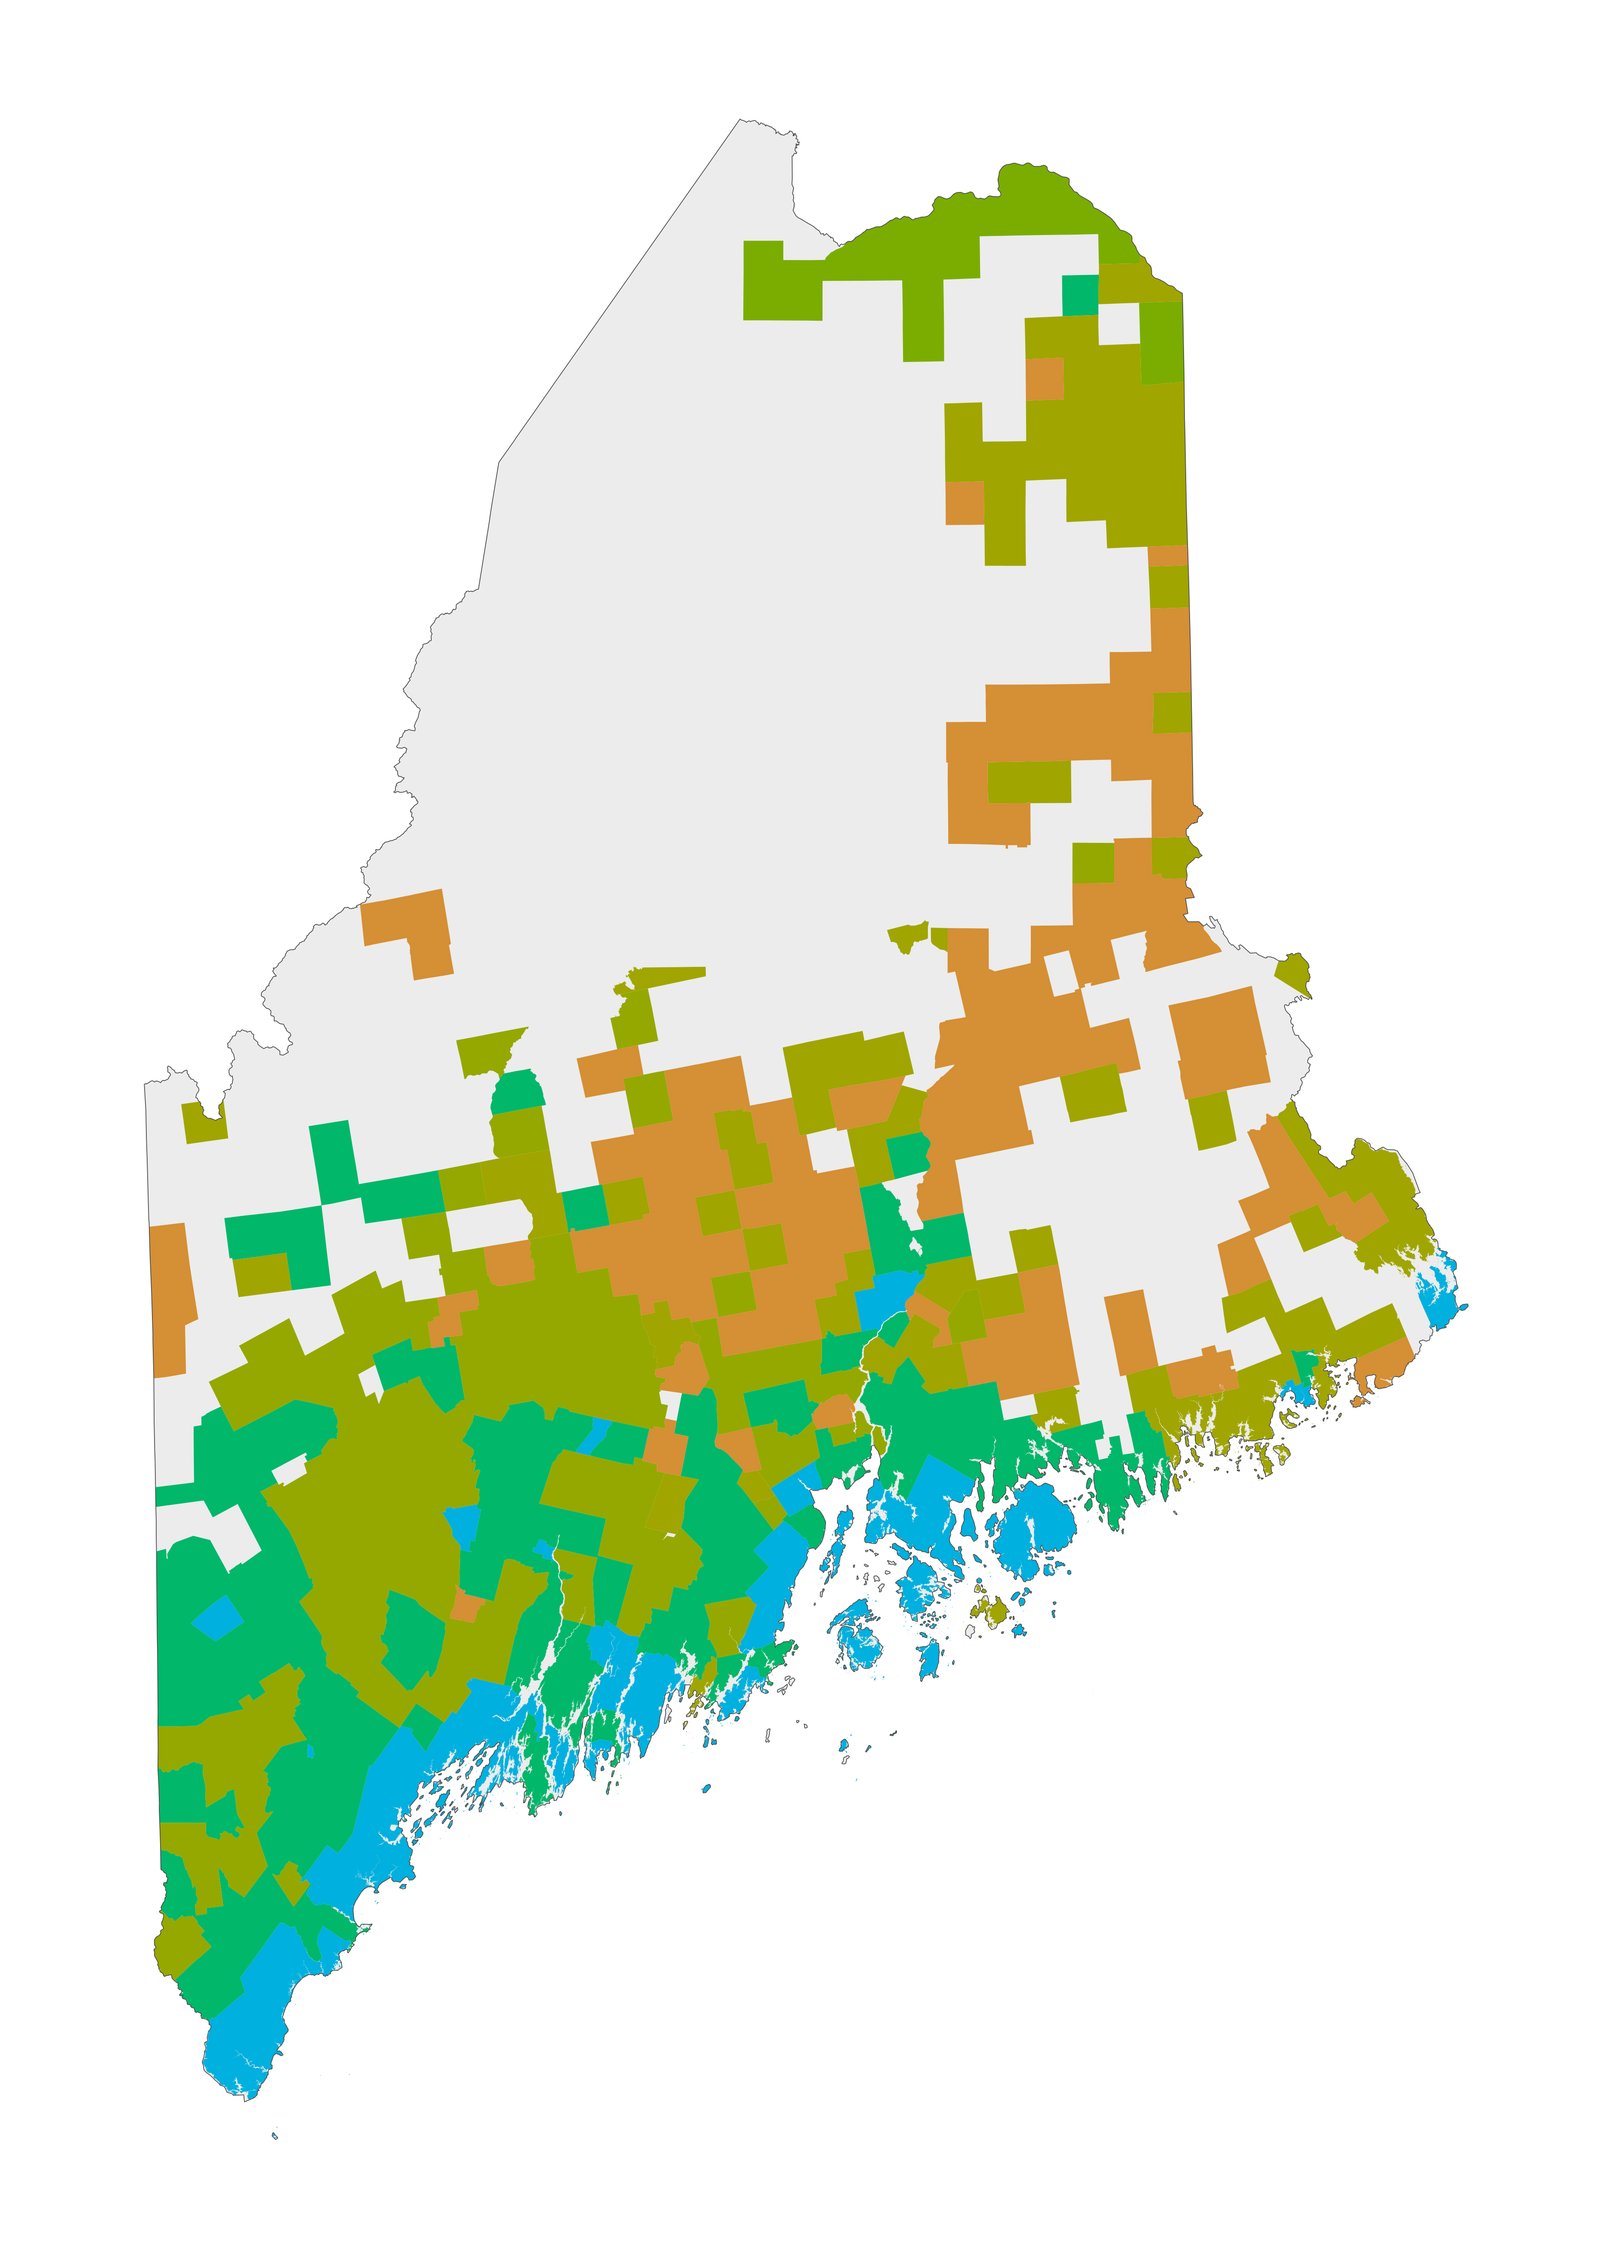
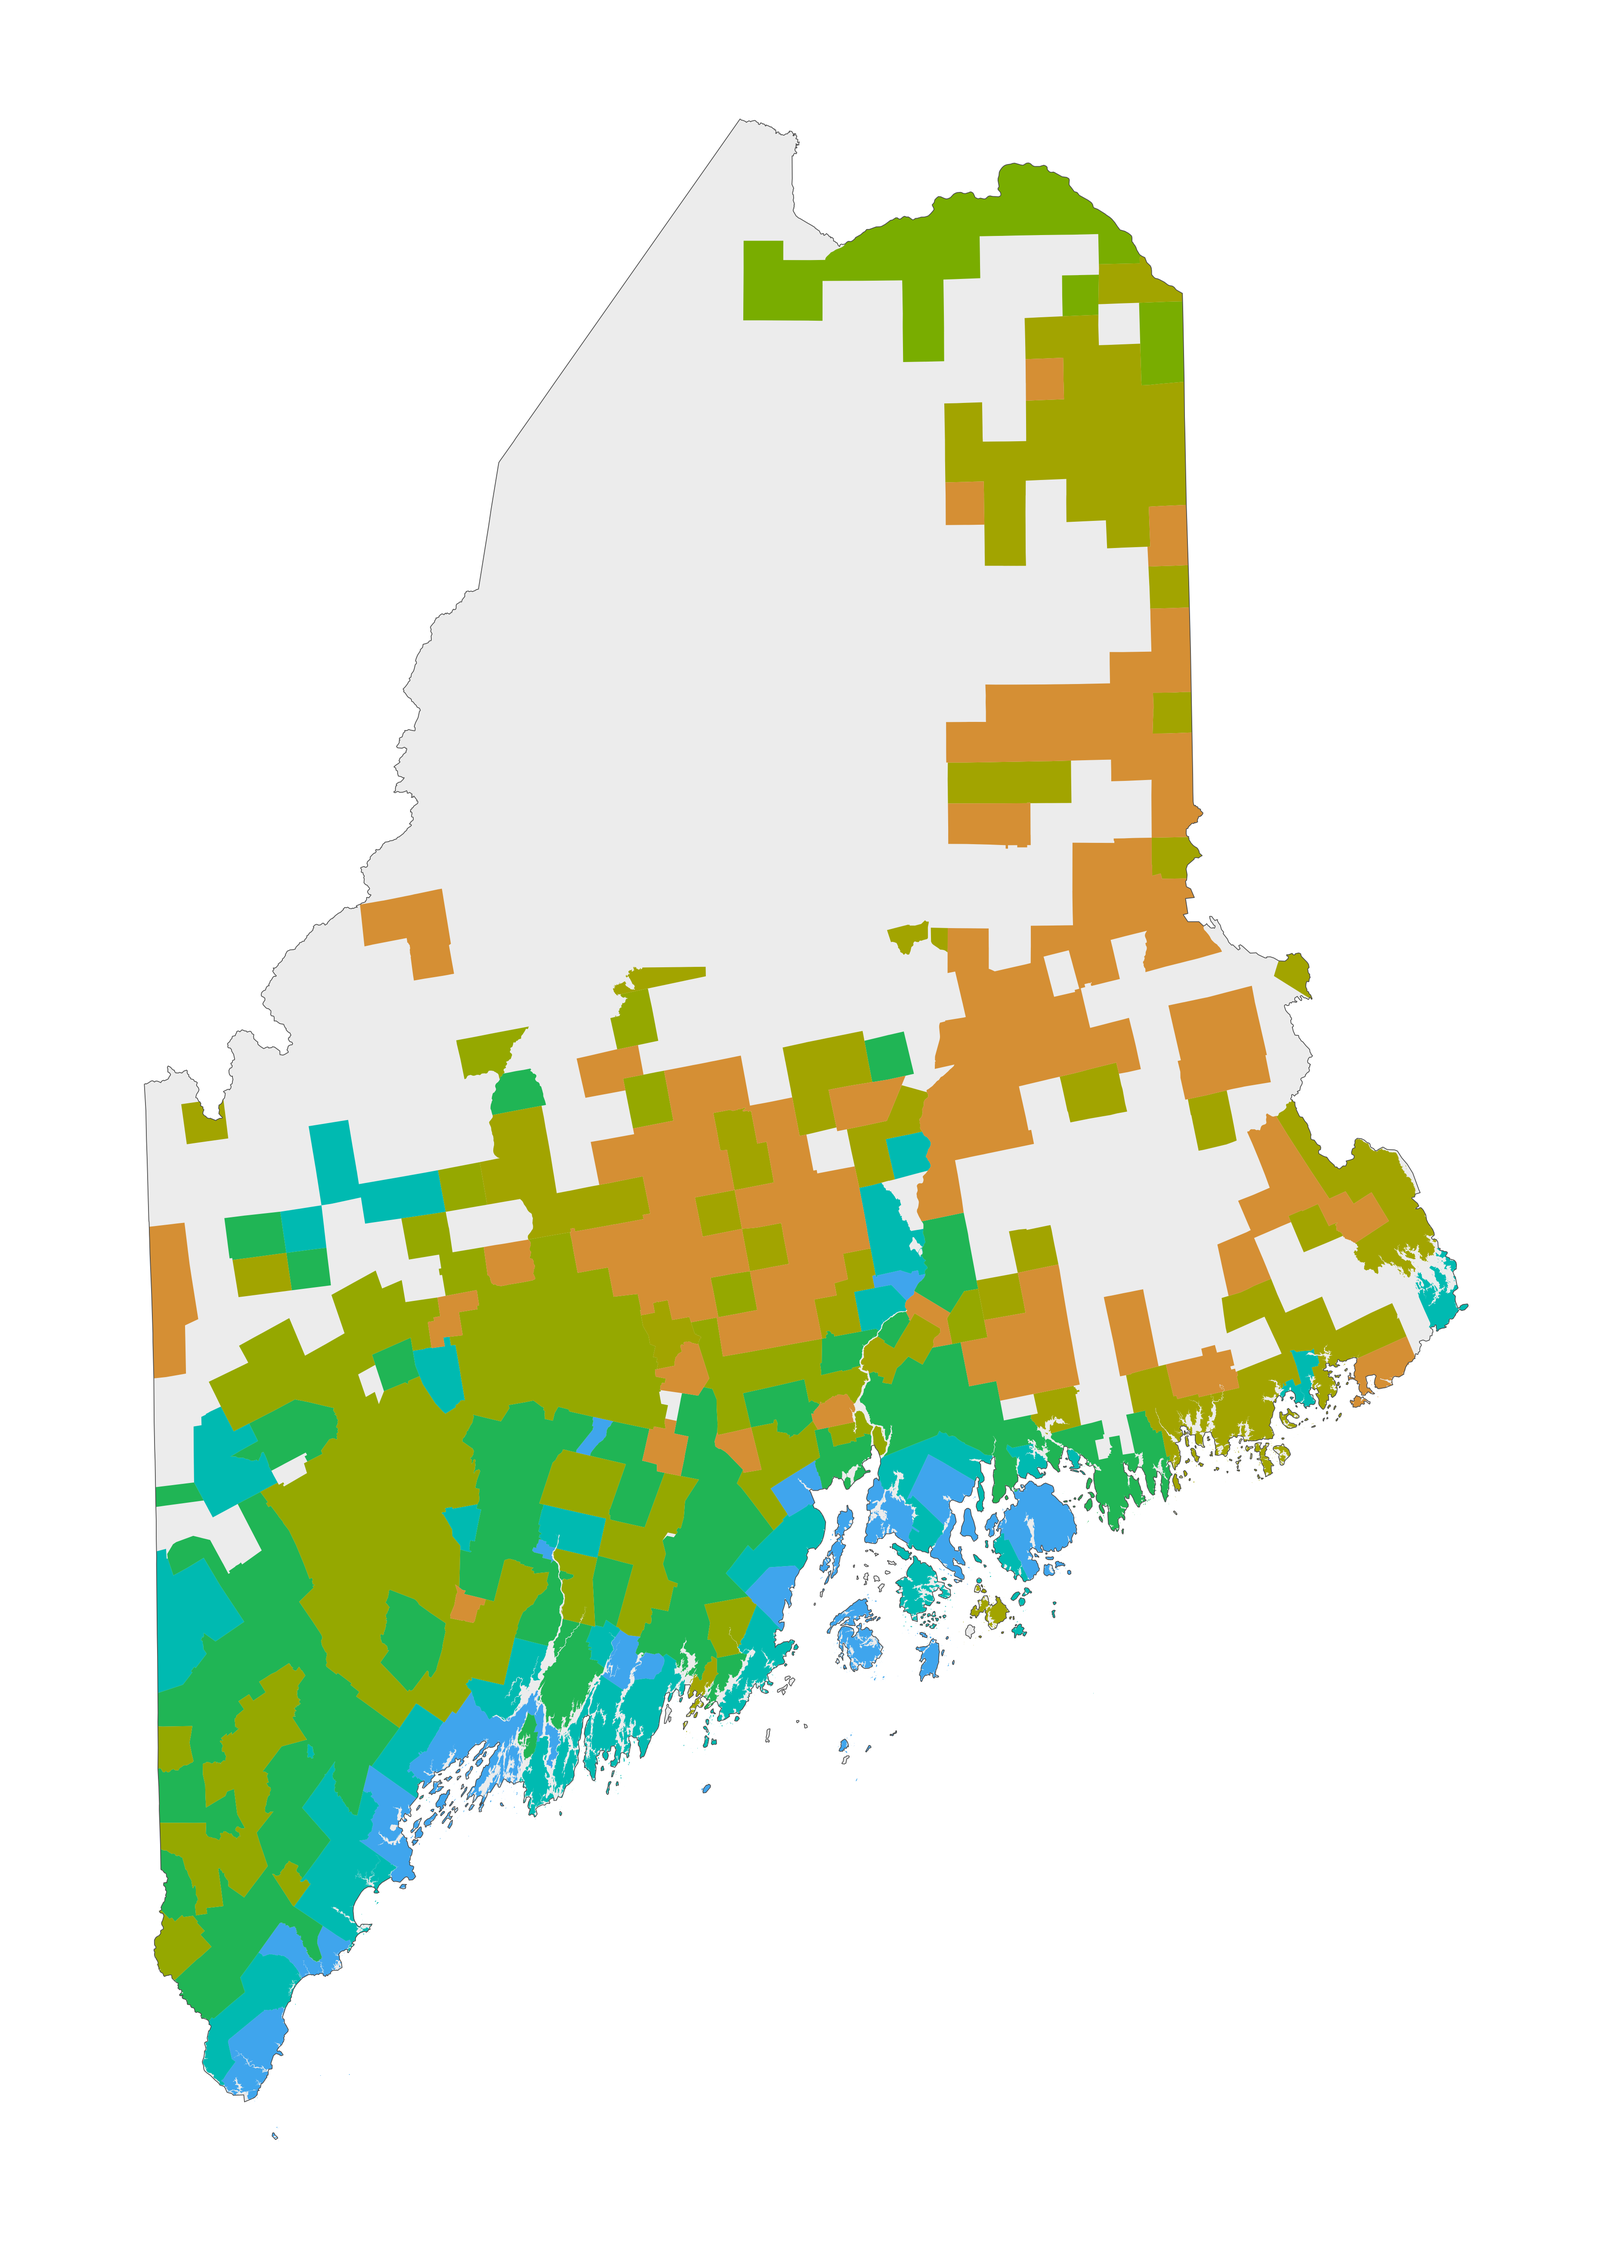
Atlas: Maine on seven stepping-stone blocs (zeta 0.5)
Maine's panel now shows the seven-bloc stepping-stone partition the paper
uses (K = 10 run, zeta = 0.5; pooled p(T = 7) = 1.00): The Old Coast, The
River Cities, Hills and Fields, New France, Mills and Farms, The County,
The Deep Woods. Rebuilt Maine's map, zoom map and PCA in the base and fused
schemes, and its bloc profile and index image (03_check: counts match, pixel
match 1.00). Only Maine's section of the panel HTML changes. The US overview
maps still show the six-bloc fit.

diff --git a/research/_atlas_fused_panels.html b/research/_atlas_fused_panels.html
@@ -178,19 +178,20 @@
 <section class="atlas-panel" id="panel-me" hidden>
   <header class="atlas-panel-head"><h2>Maine</h2>
     <button type="button" class="atlas-close" aria-label="Close Maine panel">&times;</button></header>
-  <p class="atlas-panel-sub">462 towns, 72 statewide questions, 2008–2025, 6 voting blocs.</p>
+  <p class="atlas-panel-sub">462 towns, 72 statewide questions, 2008–2025, 7 voting blocs.</p>
   <div class="atlas-panel-grid">
     <figure class="atlas-pca"><img loading="lazy" src="../files/images/research/atlas-fused/me_pca.gif" alt="Rotating three-dimensional plot of Maine towns on their first three Jensen-Shannon principal coordinates, colored by voting bloc, with numbered bloc centroids.">
       <figcaption>Towns on the first three principal coordinates of their voting (PC1 60% of variation). Numbers mark bloc centers. <strong>Click the plot</strong> to color the same points by density, race and education.</figcaption></figure>
     <ol class="atlas-blocs">
-      <li><span class="bloc-swatch" style="background:#81B9E6;color:#111">1</span><span class="bloc-name">The Old Coast</span><span class="bloc-meta">74 towns &middot; Harris 2024 69%</span></li>
-      <li><span class="bloc-swatch" style="background:#B9BCC3;color:#111">2</span><span class="bloc-name">The River Towns</span><span class="bloc-meta">107 towns &middot; Harris 2024 51%</span></li>
-      <li><span class="bloc-swatch" style="background:#8DC63F;color:#111">3</span><span class="bloc-name">New France</span><span class="bloc-meta">14 towns &middot; Harris 2024 43%</span></li>
-      <li><span class="bloc-swatch" style="background:#DA967D;color:#111">4</span><span class="bloc-name">The Mills</span><span class="bloc-meta">94 towns &middot; Harris 2024 40%</span></li>
-      <li><span class="bloc-swatch" style="background:#E09275;color:#111">5</span><span class="bloc-name">The County</span><span class="bloc-meta">75 towns &middot; Harris 2024 38%</span></li>
-      <li><span class="bloc-swatch" style="background:#DC6E55;color:#fff">6</span><span class="bloc-name">The Deep Woods</span><span class="bloc-meta">98 towns &middot; Harris 2024 28%</span></li>
+      <li><span class="bloc-swatch" style="background:#72B3E9;color:#111">1</span><span class="bloc-name">The Old Coast</span><span class="bloc-meta">39 towns &middot; Harris 2024 74%</span></li>
+      <li><span class="bloc-swatch" style="background:#96B1CC;color:#111">2</span><span class="bloc-name">The River Cities</span><span class="bloc-meta">61 towns &middot; Harris 2024 61%</span></li>
+      <li><span class="bloc-swatch" style="background:#C2BABB;color:#111">3</span><span class="bloc-name">Hills and Fields</span><span class="bloc-meta">85 towns &middot; Harris 2024 49%</span></li>
+      <li><span class="bloc-swatch" style="background:#8DC63F;color:#111">4</span><span class="bloc-name">New France</span><span class="bloc-meta">15 towns &middot; Harris 2024 43%</span></li>
+      <li><span class="bloc-swatch" style="background:#DB957C;color:#111">5</span><span class="bloc-name">Mills and Farms</span><span class="bloc-meta">91 towns &middot; Harris 2024 40%</span></li>
+      <li><span class="bloc-swatch" style="background:#E09174;color:#111">6</span><span class="bloc-name">The County</span><span class="bloc-meta">72 towns &middot; Harris 2024 38%</span></li>
+      <li><span class="bloc-swatch" style="background:#DC6E55;color:#fff">7</span><span class="bloc-name">The Deep Woods</span><span class="bloc-meta">99 towns &middot; Harris 2024 28%</span></li>
     </ol>
-    <figure class="atlas-state-map"><div class="atlas-zoom"><img loading="lazy" src="../files/images/research/atlas-fused/me_map.png" data-hi="../files/images/research/atlas-fused/me_map_hi.png" data-lines="../files/images/research/atlas/me_lines.png" data-labels="../files/images/research/atlas/me_labels.json" data-index="../files/images/research/atlas-profiles/me_index.png" data-profile="../files/images/research/atlas-profiles/me_profile.json" alt="Map of Maine towns colored by voting bloc (6 blocs)." draggable="false"></div><figcaption>Scroll, pinch or double-click to zoom; drag to pan. Zoom in for boundaries and town names. <strong>Click a bloc</strong> in the list or on the map for its demographic profile.</figcaption></figure>
+    <figure class="atlas-state-map"><div class="atlas-zoom"><img loading="lazy" src="../files/images/research/atlas-fused/me_map.png" data-hi="../files/images/research/atlas-fused/me_map_hi.png" data-lines="../files/images/research/atlas/me_lines.png" data-labels="../files/images/research/atlas/me_labels.json" data-index="../files/images/research/atlas-profiles/me_index.png" data-profile="../files/images/research/atlas-profiles/me_profile.json" alt="Map of Maine towns colored by voting bloc (7 blocs)." draggable="false"></div><figcaption>Scroll, pinch or double-click to zoom; drag to pan. Zoom in for boundaries and town names. <strong>Click a bloc</strong> in the list or on the map for its demographic profile.</figcaption></figure>
   </div>
   <div class="atlas-demog" id="demog-me" hidden>
     <img loading="lazy" width="1200" height="400" data-src="../files/images/research/atlas/me_demog.gif" alt="Three synchronized rotating plots of the same towns on the same principal coordinates, colored by population density, by racial composition, and by share with a bachelor's degree.">

diff --git a/research/_atlas_panels.html b/research/_atlas_panels.html
@@ -178,19 +178,20 @@
 <section class="atlas-panel" id="panel-me" hidden>
   <header class="atlas-panel-head"><h2>Maine</h2>
     <button type="button" class="atlas-close" aria-label="Close Maine panel">&times;</button></header>
-  <p class="atlas-panel-sub">462 towns, 72 statewide questions, 2008–2025, 6 voting blocs.</p>
+  <p class="atlas-panel-sub">462 towns, 72 statewide questions, 2008–2025, 7 voting blocs.</p>
   <div class="atlas-panel-grid">
     <figure class="atlas-pca"><img loading="lazy" src="../files/images/research/atlas/me_pca.gif" alt="Rotating three-dimensional plot of Maine towns on their first three Jensen-Shannon principal coordinates, colored by voting bloc, with numbered bloc centroids.">
       <figcaption>Towns on the first three principal coordinates of their voting (PC1 60% of variation). Numbers mark bloc centers. <strong>Click the plot</strong> to color the same points by density, race and education.</figcaption></figure>
     <ol class="atlas-blocs">
-      <li><span class="bloc-swatch" style="background:#00B0DE;color:#111">1</span><span class="bloc-name">The Old Coast</span><span class="bloc-meta">74 towns &middot; Harris 2024 69%</span></li>
-      <li><span class="bloc-swatch" style="background:#00B76A;color:#111">2</span><span class="bloc-name">The River Towns</span><span class="bloc-meta">107 towns &middot; Harris 2024 51%</span></li>
-      <li><span class="bloc-swatch" style="background:#7AAD00;color:#111">3</span><span class="bloc-name">New France</span><span class="bloc-meta">14 towns &middot; Harris 2024 43%</span></li>
-      <li><span class="bloc-swatch" style="background:#95A800;color:#111">4</span><span class="bloc-name">The Mills</span><span class="bloc-meta">94 towns &middot; Harris 2024 40%</span></li>
-      <li><span class="bloc-swatch" style="background:#A0A500;color:#111">5</span><span class="bloc-name">The County</span><span class="bloc-meta">75 towns &middot; Harris 2024 38%</span></li>
-      <li><span class="bloc-swatch" style="background:#D58F34;color:#111">6</span><span class="bloc-name">The Deep Woods</span><span class="bloc-meta">98 towns &middot; Harris 2024 28%</span></li>
+      <li><span class="bloc-swatch" style="background:#3FA5ED;color:#111">1</span><span class="bloc-name">The Old Coast</span><span class="bloc-meta">39 towns &middot; Harris 2024 74%</span></li>
+      <li><span class="bloc-swatch" style="background:#00BAB1;color:#111">2</span><span class="bloc-name">The River Cities</span><span class="bloc-meta">61 towns &middot; Harris 2024 61%</span></li>
+      <li><span class="bloc-swatch" style="background:#20B555;color:#111">3</span><span class="bloc-name">Hills and Fields</span><span class="bloc-meta">85 towns &middot; Harris 2024 49%</span></li>
+      <li><span class="bloc-swatch" style="background:#79AD00;color:#111">4</span><span class="bloc-name">New France</span><span class="bloc-meta">15 towns &middot; Harris 2024 43%</span></li>
+      <li><span class="bloc-swatch" style="background:#95A800;color:#111">5</span><span class="bloc-name">Mills and Farms</span><span class="bloc-meta">91 towns &middot; Harris 2024 40%</span></li>
+      <li><span class="bloc-swatch" style="background:#A2A400;color:#111">6</span><span class="bloc-name">The County</span><span class="bloc-meta">72 towns &middot; Harris 2024 38%</span></li>
+      <li><span class="bloc-swatch" style="background:#D58F34;color:#111">7</span><span class="bloc-name">The Deep Woods</span><span class="bloc-meta">99 towns &middot; Harris 2024 28%</span></li>
     </ol>
-    <figure class="atlas-state-map"><div class="atlas-zoom"><img loading="lazy" src="../files/images/research/atlas/me_map.png" data-hi="../files/images/research/atlas/me_map_hi.png" data-lines="../files/images/research/atlas/me_lines.png" data-labels="../files/images/research/atlas/me_labels.json" alt="Map of Maine towns colored by voting bloc (6 blocs)." draggable="false"></div><figcaption>Scroll, pinch or double-click to zoom; drag to pan. Zoom in for boundaries and town names.</figcaption></figure>
+    <figure class="atlas-state-map"><div class="atlas-zoom"><img loading="lazy" src="../files/images/research/atlas/me_map.png" data-hi="../files/images/research/atlas/me_map_hi.png" data-lines="../files/images/research/atlas/me_lines.png" data-labels="../files/images/research/atlas/me_labels.json" data-index="../files/images/research/atlas-profiles/me_index.png" data-profile="../files/images/research/atlas-profiles/me_profile.json" alt="Map of Maine towns colored by voting bloc (7 blocs)." draggable="false"></div><figcaption>Scroll, pinch or double-click to zoom; drag to pan. Zoom in for boundaries and town names. <strong>Click a bloc</strong> in the list or on the map for its demographic profile.</figcaption></figure>
   </div>
   <div class="atlas-demog" id="demog-me" hidden>
     <img loading="lazy" width="1200" height="400" data-src="../files/images/research/atlas/me_demog.gif" alt="Three synchronized rotating plots of the same towns on the same principal coordinates, colored by population density, by racial composition, and by share with a bachelor's degree.">
